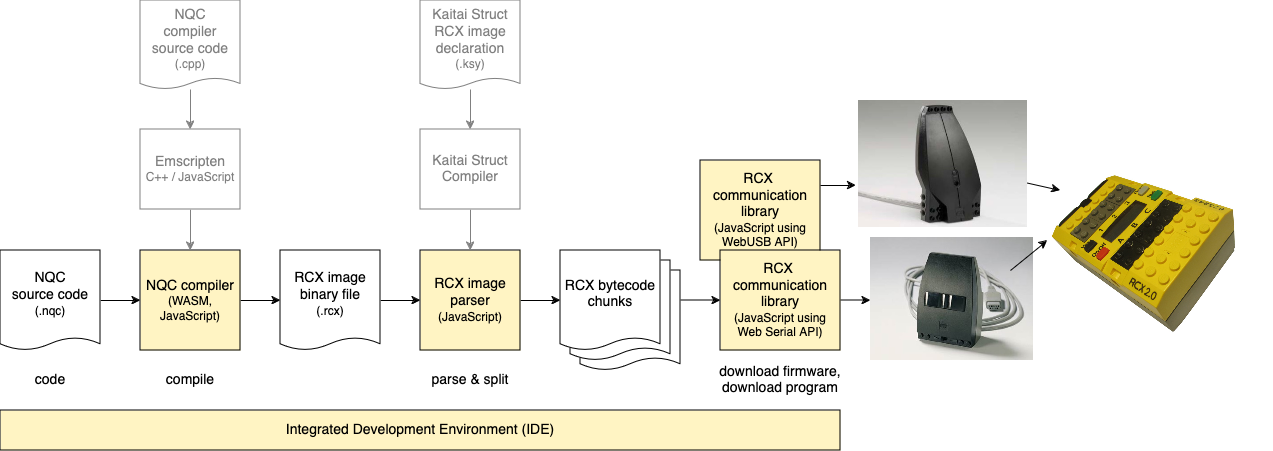
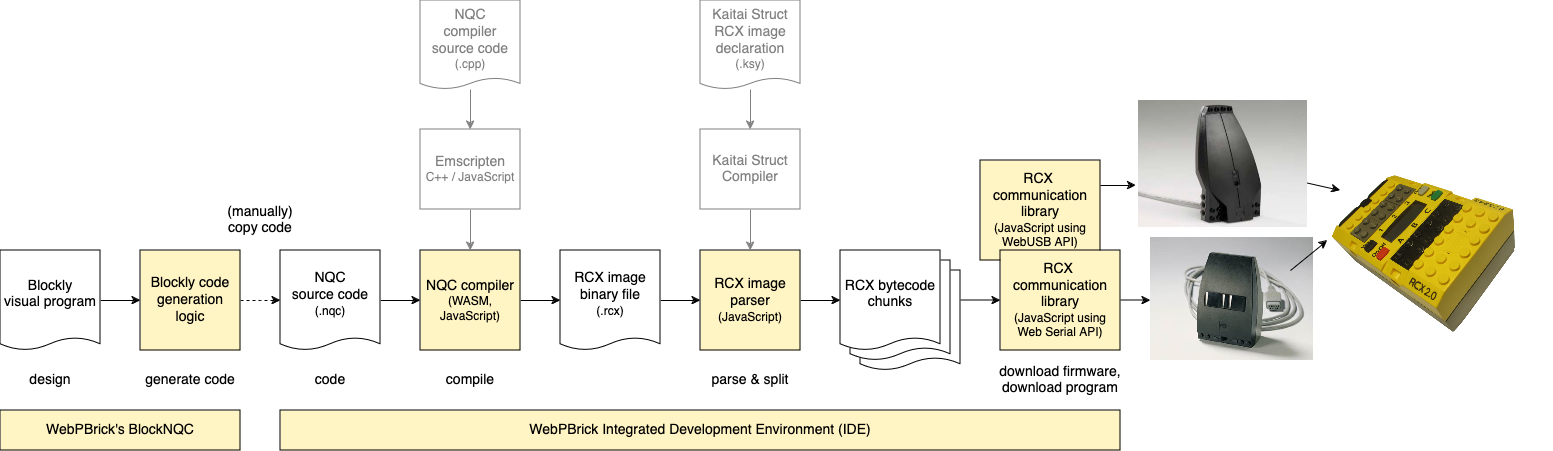
Update toolchain documentation, also add diagrams.net drawing to repo

diff --git a/README.md b/README.md
@@ -5,10 +5,14 @@ This git repository provides the source codes for the **WebPBrick** project and 
 
 ## WebPBrick How To
 
-1. Build your NQC code (click the "Build" button)
-2. Connect to the yellow programmable RCX brick using an infrared tower (click the "Serial Connect" button)
-3. Download your compiled program to the RCX (click the "Download program to RCX" button)
+1. Write NQC code _(or use BlockNQC to generate the code)_
+2. Build your NQC code (click the "Build" button)
+3. Connect to the yellow programmable RCX brick using an infrared tower (click the "Serial Connect" button)
+4. Download your compiled program to the RCX (click the "Download program to RCX" button)
 
+## WebPBrick's BlockNQC
+
+A web-based visual programming editor called BlockNQC can be used to generate NQC code. BlockNQC is based on Google's Blockly. For details, see BlockNQC's separate [README](./nqc/blocknqc/README.md) file.
 
 ## Toolchain modules
 
@@ -16,12 +20,14 @@ This git repository provides the source codes for the **WebPBrick** project and 
 
 WebPBrick's toolchain consists of several modules:
 
+* BlockNQC: Web-based visual programming editor called BlockNQC that can be used to generate NQC code (based on Google's Blockly).
 * WebNQC: The NQC compiler built as WebAssembly (WASM) for the web using emscripten.
 * RCX image parser written in Kaitai Struct and compiled to JavaScript to parse and split RCX image binary files so that they can be downloaded to the RCX in their bytecode chunks.
 * RCX communication libraries:
   * Based on Web Serial API to be used with the LEGO IR Serial Tower and [DIY IR serial towers](https://github.com/maehw/DiyIrTower)
   * Based on WebUSB API to be used with LEGO IR USB Tower
 
+Those modules could be used independently.
 
 ## Run
 
